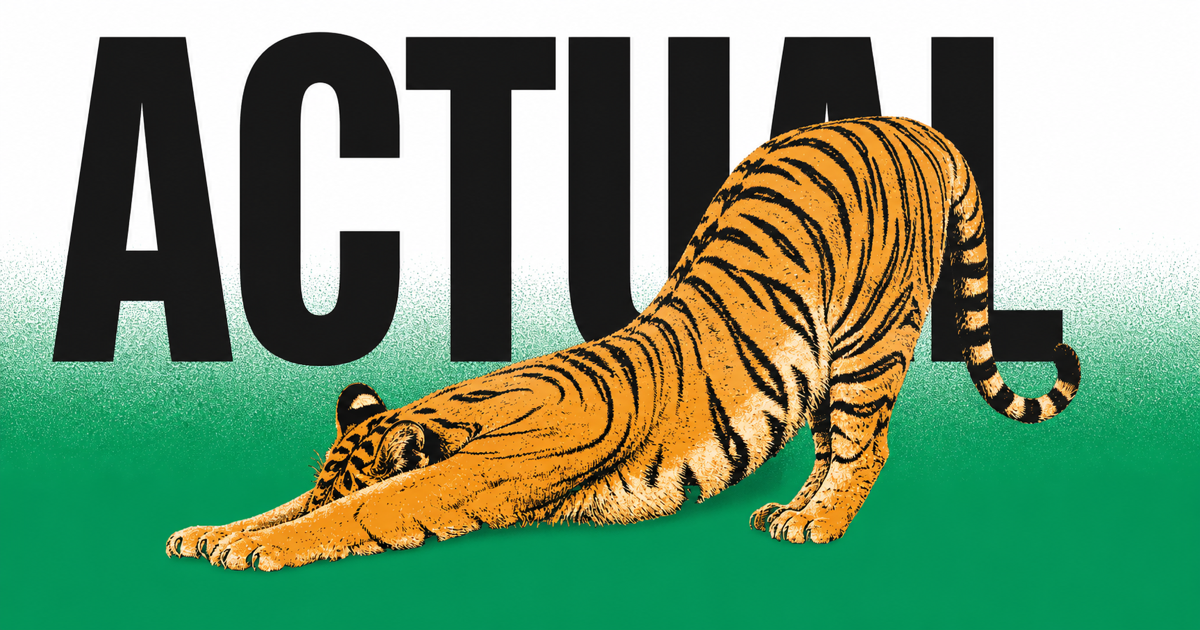
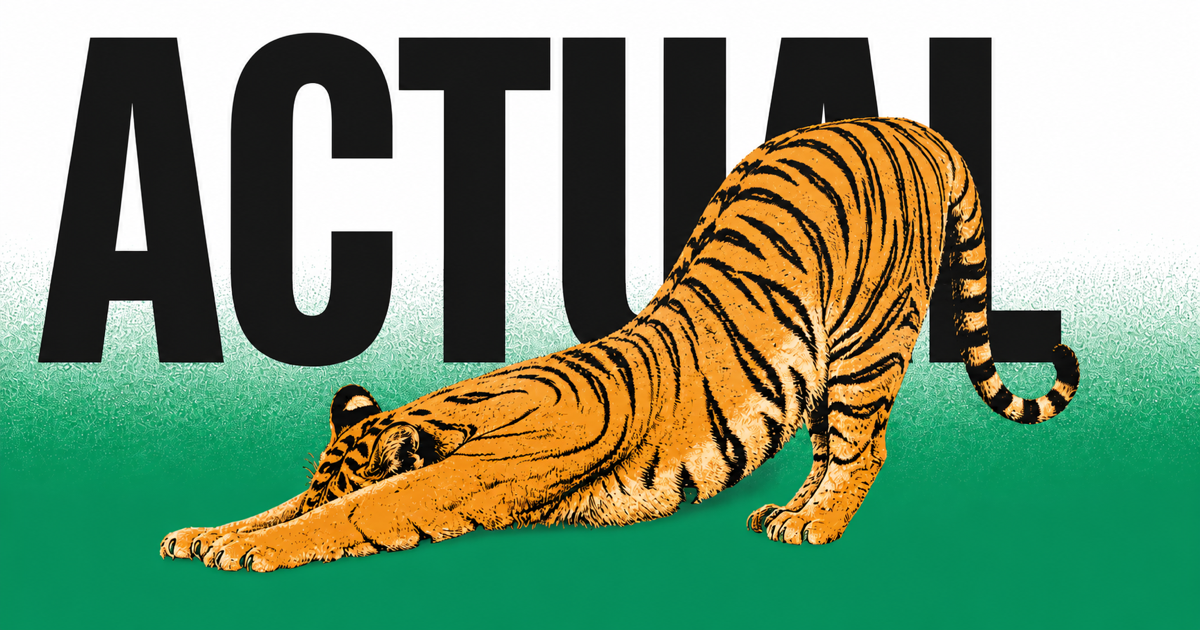
Restyle the scene index

diff --git a/src/main.ts b/src/main.ts
@@ -103,7 +103,7 @@ function renderScene(index: number, initial = false): void {
     heroBackground.src = background;
     heroAnimal.src = scene.animal;
     heroAnimal.alt = scene.description;
-    sceneIndex.textContent = String(index + 1).padStart(2, "0");
+    sceneIndex.textContent = `#${String(index).padStart(3, "0")}`;
     visualDescription.textContent = scene.description;
     sceneControl.setAttribute("aria-label", `Show another animal. Current image: ${scene.name}`);
     rememberScene(index);

diff --git a/index.html b/index.html
@@ -79,7 +79,7 @@
       </div>
 
       <button class="scene-control" id="scene-control" type="button" aria-label="Show another animal">
-        <span id="scene-index">01</span> / 05
+        <span id="scene-index">#000</span>
       </button>
 
       <h1 class="visually-hidden">ACTUAL</h1>
